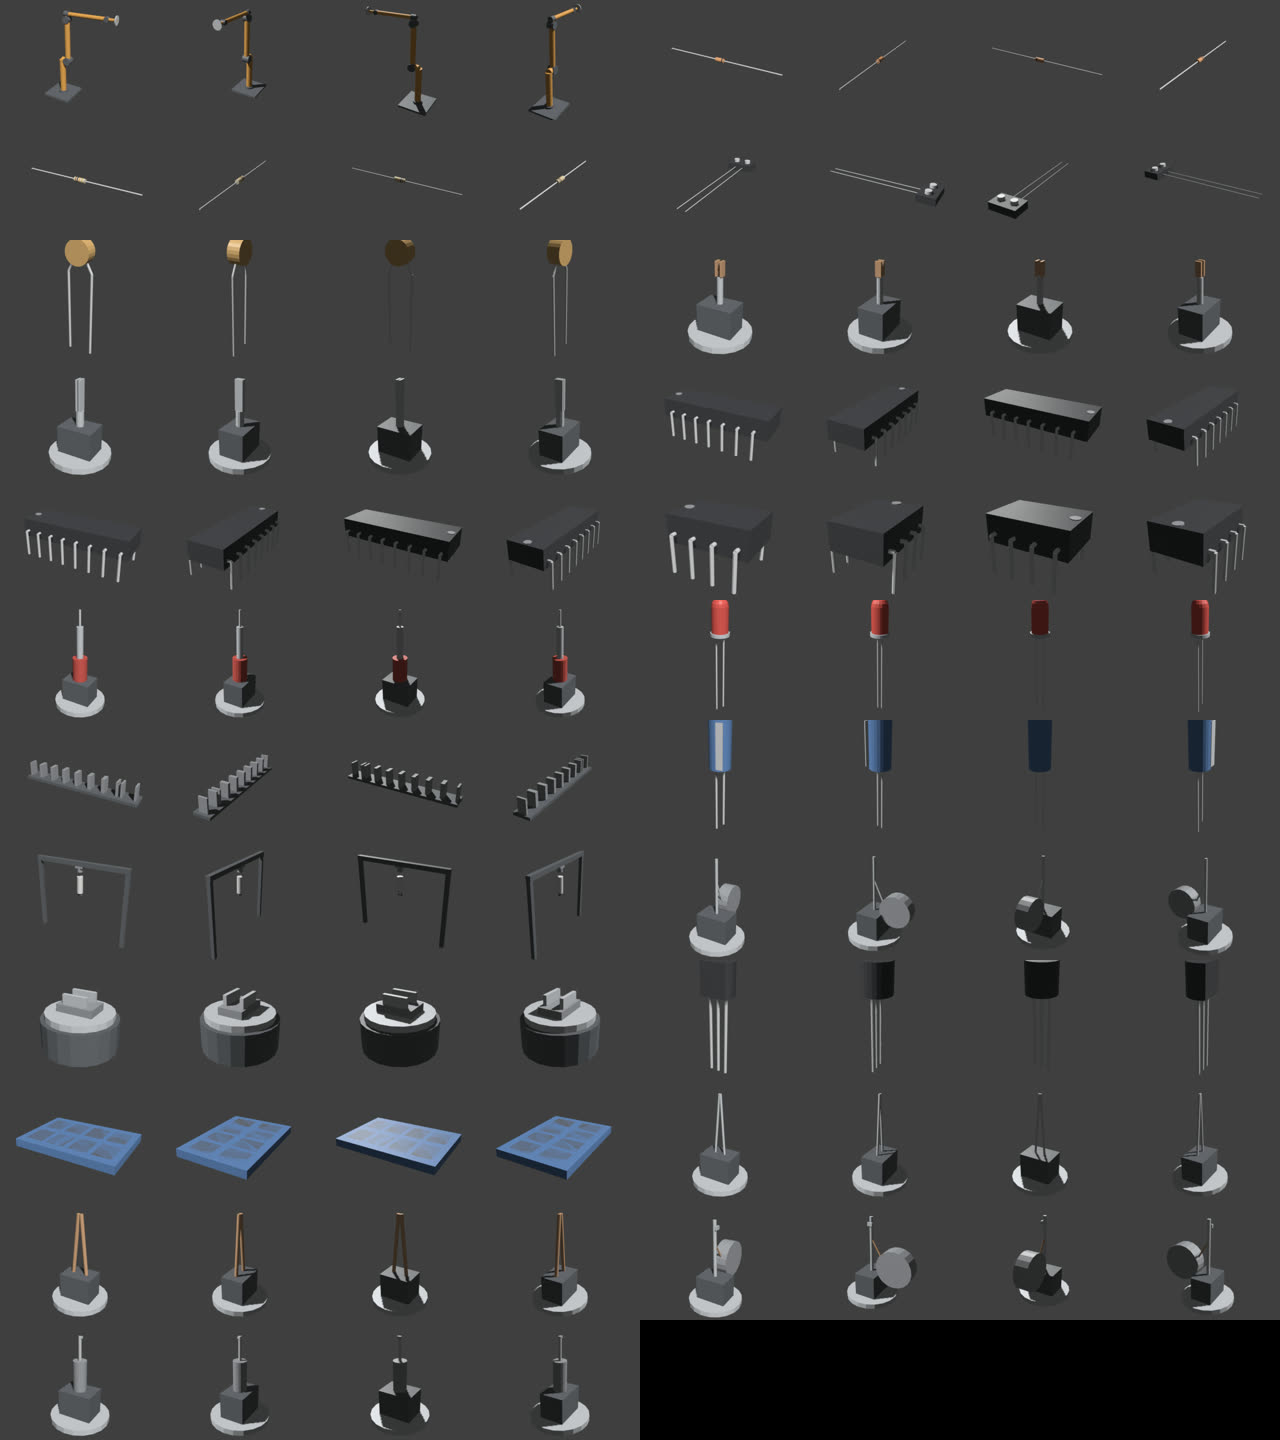
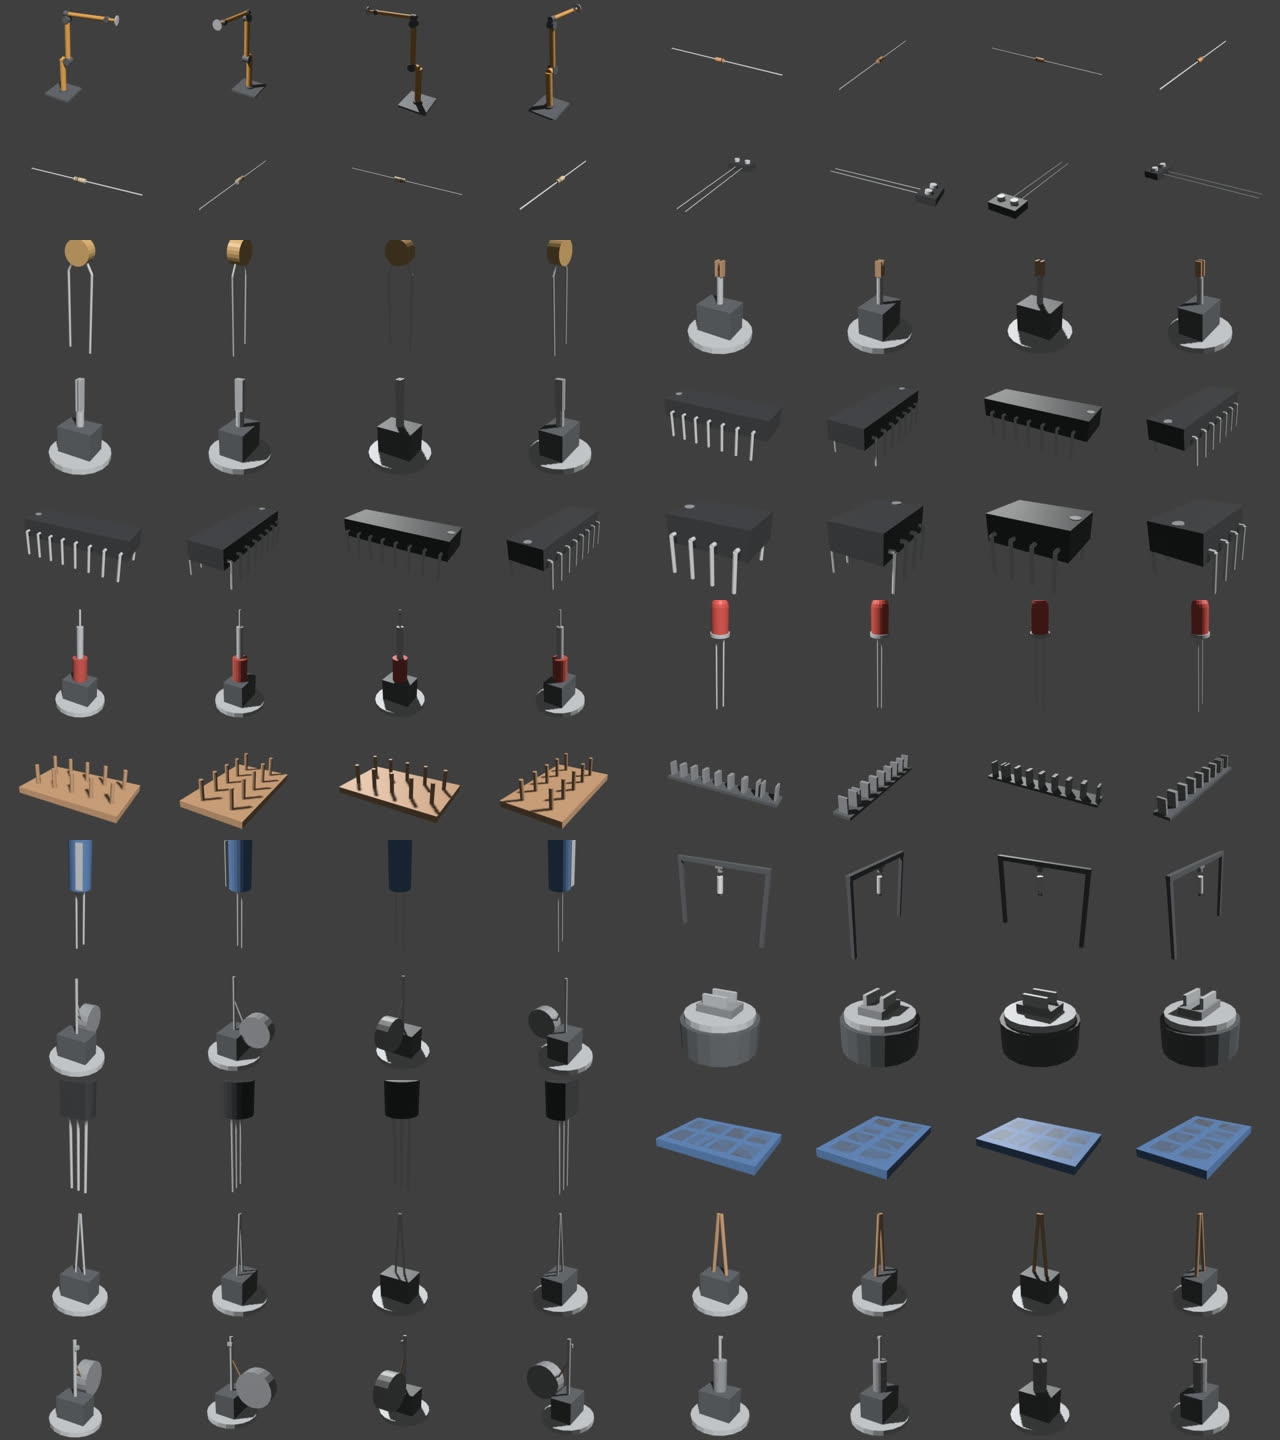
ext: cell, the multivibrator's parts and tile (Saga 17 step 34, part 1)
Decision C24: the second circuit is built Manhattan style on a
ground-plane tile.
- parts/manhattan-tile.toml: copper-clad board 26 by 16 mm, ten turret
  posts 5 mm tall; posts 1 and 6 on the plane, one conductor (a new
  part-kind field, common: check joins such pins); the rest each on a
  pad, a net each. Its model (CellModels.xtl), the contact sheet.
- A second tray beside the first: pockets 9 to 16 (layout::TRAY2), for
  a circuit of more than eight parts; the first tray is unchanged.
- circuits/multivibrator.toml: the tile, two 2N3904s, four resistors,
  two 10 uF capacitors, a red and a green LED, a battery snap; eight
  nets, each on a post of the tile. nets/multivibrator.net.
- CellPlan.xtl: the core placed as it should face (a DIP turned over, a
  tile as it lies, taken by its body); no jumper between a core's
  common pins (ce:c_ommon, new); jumpers may come in nearly level.
- Tests and goldens for the new kind, circuit and tray.

Not yet: the planned build (the radial parts' second leads end under
their own bodies; next: bend them out first).

diff --git a/extensions/cell/rust/src/layout.rs b/extensions/cell/rust/src/layout.rs
@@ -56,8 +56,14 @@ pub fn fixtures() -> Vec<(String, String, [f64; 6])> {
         "tray".to_string(),
         [198.0, 198.0, -150.0, 0.0, 0.0, 45.0],
     ));
+    // a second tray beside the first (pockets 9 to 16), for a circuit of
+    // more than eight parts
+    out.push(("tray2".to_string(), "tray".to_string(), TRAY2));
     out
 }
+
+/// The second tray's pose: beside the first, along its own -y.
+pub const TRAY2: [f64; 6] = [268.71, 127.29, -150.0, 0.0, 0.0, 45.0];
 
 fn base(name: &str) -> [f64; 6] {
     ARM_BASES
@@ -151,11 +157,17 @@ pub fn slot_pose(arm: &str, tool: &str) -> Pose {
 /// A tray pocket's middle, on the plate's top, in the cell's frame.
 #[must_use]
 pub fn pocket(n: usize) -> V3 {
+    // pockets 1 to 8 on the first tray, 9 to 16 on the second
+    let (name, k) = if n > 8 {
+        ("tray2", n - 8)
+    } else {
+        ("tray1", n)
+    };
     let tray = fixtures()
         .into_iter()
-        .find(|f| f.0 == "tray1")
+        .find(|f| f.0 == name)
         .map_or([0.0; 6], |f| f.2);
-    let at = node(TRAY, &format!("pocket{n}")).unwrap_or([0.0; 3]);
+    let at = node(TRAY, &format!("pocket{k}")).unwrap_or([0.0; 3]);
     pose6(tray).then(&Pose::from_xyz_rpy(at, [0.0; 3])).p
 }
 
@@ -277,7 +289,7 @@ pub fn nets(name: &str) -> Result<Vec<Net>, String> {
     Ok(f.net)
 }
 
-const CIRCUITS: [(&str, &str); 7] = [
+const CIRCUITS: [(&str, &str); 8] = [
     ("demo", include_str!("../../circuits/demo.toml")),
     ("weld", include_str!("../../circuits/weld.toml")),
     ("tester", include_str!("../../circuits/tester.toml")),
@@ -285,6 +297,10 @@ const CIRCUITS: [(&str, &str); 7] = [
     ("plan", include_str!("../../circuits/plan.toml")),
     ("blinker", include_str!("../../circuits/blinker.toml")),
     ("lap", include_str!("../../circuits/lap.toml")),
+    (
+        "multivibrator",
+        include_str!("../../circuits/multivibrator.toml"),
+    ),
 ];
 
 /// The circuits a reset can lay out: `none` (empty trays) and those in

diff --git a/extensions/cell/rust/src/parts.rs b/extensions/cell/rust/src/parts.rs
@@ -10,7 +10,7 @@ use std::collections::BTreeSet;
 pub type Vec3 = [f64; 3];
 
 /// The library's files, in the order `kinds` lists them.
-const FILES: [(&str, &str); 10] = [
+const FILES: [(&str, &str); 11] = [
     ("dip8", include_str!("../../parts/dip8.toml")),
     ("dip14", include_str!("../../parts/dip14.toml")),
     ("dip16", include_str!("../../parts/dip16.toml")),
@@ -29,6 +29,10 @@ const FILES: [(&str, &str); 10] = [
         include_str!("../../parts/ceramic-disc.toml"),
     ),
     ("led-5mm", include_str!("../../parts/led-5mm.toml")),
+    (
+        "manhattan-tile",
+        include_str!("../../parts/manhattan-tile.toml"),
+    ),
     (
         "battery-snap",
         include_str!("../../parts/battery-snap.toml"),
@@ -170,6 +174,8 @@ struct PartFile {
     heat_sensitive: bool,
     #[serde(default)]
     semiconductor: bool,
+    #[serde(default)]
+    common: Vec<String>,
     body: Body,
     #[serde(default)]
     pin_pattern: Option<PinPattern>,
@@ -194,6 +200,10 @@ pub struct PartKind {
     /// transient through it can damage it.
     pub semiconductor: bool,
     /// The body.
+    /// Pins that are one conductor in the part (a ground-plane tile's
+    /// posts on the plane): the connections check joins them.
+    #[serde(default, skip_serializing_if = "Vec::is_empty")]
+    pub common: Vec<String>,
     pub body: Body,
     /// The pins, in order.
     pub pins: Vec<Pin>,
@@ -223,6 +233,7 @@ impl PartKind {
             example: f.example,
             heat_sensitive: f.heat_sensitive,
             semiconductor: f.semiconductor,
+            common: f.common,
             body: f.body,
             pins,
             grasps: f.grasp,

diff --git a/extensions/cell/rust/src/lib.rs b/extensions/cell/rust/src/lib.rs
@@ -223,6 +223,20 @@ fn kind(args: &[Value]) -> Result<Value, OwnedError> {
     })
 }
 
+/// A part's pins that are one conductor (a ground plane's posts), space
+/// between (empty: none).
+fn common(args: &[Value]) -> Result<Value, OwnedError> {
+    let id = text(&args[0])?;
+    SESSION.with(|s| {
+        let w = s.borrow();
+        let p = w
+            .part(&id)
+            .ok_or_else(|| OwnedError::failure(format!("no part {id}")))?;
+        let k = p.kind_of().map_err(OwnedError::failure)?;
+        Ok(Value::Text(k.common.join(" ")))
+    })
+}
+
 /// The id the session's next wire will have (`W3`).
 fn next_wire(_: &[Value]) -> Result<Value, OwnedError> {
     SESSION.with(|s| {
@@ -285,6 +299,7 @@ xetal_ext_sdk::xetal_extension! {
         frame: 1, "Char -> Char", "Where a frame of the session's cell is now: x y z, mm.";
         kind: 1, "Char -> Char", "A part of the session's cell: its kind, then kitted if its leads came cut.";
         next_wire: 0, "Unit -> Char", "The id the session's next wire will have.";
+        common: 1, "Char -> Char", "A part's pins that are one conductor (a ground plane's posts), space between.";
         joined: 1, "Char -> Char", "The pins a pin of the session's cell is soldered to, space between.";
     }
 }

diff --git a/extensions/cell/rust/src/check.rs b/extensions/cell/rust/src/check.rs
@@ -79,6 +79,14 @@ impl World {
                 ok = false;
             }
         }
+        // a part's common pins are one conductor (a ground plane's posts)
+        for p in self.parts.iter().filter(|p| !p.lost) {
+            if let Ok(k) = p.kind_of() {
+                for w in k.common.windows(2) {
+                    sets.join(&format!("{}.{}", p.id, w[0]), &format!("{}.{}", p.id, w[1]));
+                }
+            }
+        }
         // a wire is one conductor end to end
         for p in self.parts.iter().filter(|p| p.wire.is_some() && !p.lost) {
             sets.join(&format!("{}.1", p.id), &format!("{}.2", p.id));

diff --git a/extensions/cell/rust/tests/world.rs b/extensions/cell/rust/tests/world.rs
@@ -79,7 +79,9 @@ fn a_refused_command_changes_nothing() {
     let o = w.apply(&parse_line("reset circuit=nowhere").unwrap());
     assert_eq!(
         o.refused.as_deref(),
-        Some("no circuit nowhere (circuits: none demo weld tester tester-b plan blinker lap)")
+        Some(
+            "no circuit nowhere (circuits: none demo weld tester tester-b plan blinker lap multivibrator)"
+        )
     );
     // a program stops at the first command that is not ok
     let out = w.apply_all(&parse_program("wait s=1\ngrip A close\nwait s=1").unwrap());

diff --git a/extensions/cell/rust/tests/scene.rs b/extensions/cell/rust/tests/scene.rs
@@ -25,8 +25,8 @@ fn a_scene_of_a_program() {
     let count = |p: &str| lines.iter().filter(|l| l.starts_with(p)).count();
     assert_eq!(
         count("fixture("),
-        5,
-        "the stage, the scope, one rack, the bending rig, the tray"
+        6,
+        "the stage, the scope, one rack, the bending rig, two trays"
     );
     assert_eq!(count("rig("), 1, "one arm");
     assert_eq!(count("track("), 2, "the arm and the stage");

diff --git a/extensions/cell/rust/tests/parts.rs b/extensions/cell/rust/tests/parts.rs
@@ -20,11 +20,12 @@ fn every_kind_parses_in_order() {
             "radial-electrolytic",
             "ceramic-disc",
             "led-5mm",
+            "manhattan-tile",
             "battery-snap"
         ]
     );
     let pins: Vec<usize> = lib.iter().map(|k| k.pins.len()).collect();
-    assert_eq!(pins, [8, 14, 16, 3, 2, 2, 2, 2, 2, 2]);
+    assert_eq!(pins, [8, 14, 16, 3, 2, 2, 2, 2, 2, 10, 2]);
 }
 
 #[test]

diff --git a/extensions/cell/rust/tests/grip.rs b/extensions/cell/rust/tests/grip.rs
@@ -61,7 +61,7 @@ fn a_reset_fills_the_tray_and_the_racks() {
     refused(
         &mut w,
         "reset circuit=nowhere",
-        "no circuit nowhere (circuits: none demo weld tester tester-b plan blinker lap)",
+        "no circuit nowhere (circuits: none demo weld tester tester-b plan blinker lap multivibrator)",
     );
 }
 

diff --git a/extensions/cell/rust/src/wire.rs b/extensions/cell/rust/src/wire.rs
@@ -157,6 +157,7 @@ pub fn kind(awg: i64, d: f64, lead1: &[V3], lead2: &[V3], density: f64, metal: &
         example: "a length of wire".into(),
         heat_sensitive: false,
         semiconductor: false,
+        common: Vec::new(),
         body: Body {
             shape: "cylinder".into(),
             size: None,

diff --git a/docs/plan.md b/docs/plan.md
@@ -815,7 +815,7 @@ The design is docs/cell-design.md. Decisions taken in planning,
 accepted by the user on 2026-11-24 ("ok for now"), C8 revised and
 C10, C11 added that day; C12 and C13 the user's requests later that day,
 C14 a layout change made in step 6, C15 the user's request later still,
-C16 and C17 others during step 12, C18 during step 14, C19 during step 20, C20 during step 23, C21 during step 24, C22 and C23 during step 28, the blinker (the table keeps C11 last for history):
+C16 and C17 others during step 12, C18 during step 14, C19 during step 20, C20 during step 23, C21 during step 24, C22 and C23 during step 28, the blinker; C24 during step 34 (the table keeps C11 last for history):
 
 | # | Decision | Why |
 | - | -------- | --- |
@@ -840,6 +840,7 @@ C16 and C17 others during step 12, C18 during step 14, C19 during step 20, C20 d
 | C21 | Surface-mount parts are built dead-bug, and enameled wire is the first insulator for connections (the user, 2026-11-26: "dead bug SMD components. Also, another way to avoid short circuits, simpler than adding heat-shrink (which we want to keep for components) is to use enameled wire where the insulation melts while soldering. So let's say there is a 5x5 ball grid array IC, we can precisely solder a very fine (30ga or higher) enameled wire to each of the ball contacts. This might require an actuator or mechanism to add solder paste to the grid or to the wire(s)") | enameled wire is insulated except where soldering burns its enamel off; sleeving stays for component leads; SMD parts are held pads up and wired; a BGA gets a paste dispenser and a fine wire to each ball |
 | C22 | A lead or wire joined to another lead lies alongside it: a lap joint, its end bent so at least 3.2 mm (1/8 inch) of the two run parallel and touch (the user, 2026-11-26: "It would be better if components or wires attached to a dip leg (or any other component lead, actually) was parallel to it for the solder joint. This means at least a 1/8th inch bent end ... Too little overlap (or the current right-angle) is not strong enough. Too much overlap and the heat amount and duration can damage some components") | a right-angle butt joint holds by the solder alone; a lap of 3.2 mm or more is mechanically sound; more overlap is more metal to heat for longer, nearer the part's limit; a DIP leg has about 3.4 mm of straight run below its body |
 | C23 | A wire may instead be wrapped round a lead's end, 1.5 to under 2 turns, by a wrap tool that holds it taut while it is soldered and then cuts the excess (the user, 2026-11-26: "wire wrap the end, say with enameled wire, so that it is at least 1.5 turns ... a different actuator/tip that can wrap around a component less than twice (to avoid complications). The mechanism goes around and holds the wire tight while soldering and then cuts the excess wire") | a wrap is mechanically sound before the solder flows and fits where a lap does not (a crowded pin, a jumper's end); under two turns keeps the tool simple; enameled wire (C21) needs no stripping. The tool is arm A's (rack slot 8), not a station: it works on the joint already presented at the iron station, so it can hold the wire while the iron solders (a station could not be at the iron's point too) |
+| C24 | The second circuit is built Manhattan style on a ground-plane tile: copper-clad board in the vise as the core, its top the ground plane, ten turret posts (two on the plane, one conductor: a part kind's `common` pins; eight on pads glued to it, each its own node, a net each); every part's lead lapped onto its net's post; a second tray (pockets 9 to 16) for a circuit of more than eight parts | the step asks for a ground-plane tile as a subassembly; pads a net each make every net reachable at the core, so the planner's rule (a lead alongside a core pin) builds a circuit with no single chip at its middle; posts stand up like a DIP's legs up, so lap joints work the same; the pincer gripping a TO-92's lead between body and joint is its heatsink clip |
 | C14 | A tool rack beside each arm, each with all seven tools, in place of one shared rack (step 6, 2026-11-24) | four arms 900 mm apart with a reach of about 650 mm cannot all reach one rack; each arm's own changer keeps tool changes short |
 | C11 | Videos are Three.js recordings, not Cycles renders; a scene can still be written as a render bundle -- a directory and zip needing only Blender -- for a render node, and the farm can divide one (the user, 2026-11-24: four always-on servers) | cheap videos by default, the farm's capacity on hand when a ray-traced film is wanted |
 

diff --git a/docs/status.md b/docs/status.md
@@ -11,7 +11,7 @@ of date. Release 1 is hello, clock and sqlite (docs/plan.md).
 | [audio](../extensions/audio/docs/README.md) | media (saga 5) | `Audio` (`au:`) | 14 | 5 | 8 | scope, spectrum, synth | [scope](../extensions/audio/videos/scope.webm), [spectrum](../extensions/audio/videos/spectrum.webm), [synth](../extensions/audio/videos/synth.webm) | command line |
 | [blender](../extensions/blender/docs/README.md) | roadmap | `Blender` (`bl:`) | 7 | 7 | 29 | city, city-preview, cosy, cubes, game-assets, gpu-build, gpu-run, hello, hex-build, hex-keys-leds-build, hex-keys-leds-run, hex-pc, hex-run, matmul-fly, matmul-steps, relu-softmax, td-models | [city](../extensions/blender/videos/city.webm), [city-preview](../extensions/blender/videos/city-preview.webm), [cosy](../extensions/blender/videos/cosy.webm), [cubes](../extensions/blender/videos/cubes.webm), [game-assets](../extensions/blender/videos/game-assets.webm), [gpu-build](../extensions/blender/videos/gpu-build.webm), [gpu-run](../extensions/blender/videos/gpu-run.webm), [hello](../extensions/blender/videos/hello.webm), [hex-build](../extensions/blender/videos/hex-build.webm), [hex-keys-leds-build](../extensions/blender/videos/hex-keys-leds-build.webm), [hex-keys-leds-run](../extensions/blender/videos/hex-keys-leds-run.webm), [hex-pc](../extensions/blender/videos/hex-pc.webm), [hex-run](../extensions/blender/videos/hex-run.webm), [matmul-fly](../extensions/blender/videos/matmul-fly.webm), [matmul-steps](../extensions/blender/videos/matmul-steps.webm), [relu-softmax](../extensions/blender/videos/relu-softmax.webm), [td-models](../extensions/blender/videos/td-models.webm) | command line |
 | [canvas](../extensions/canvas/docs/README.md) | media (saga 5) | `Canvas` (`cv:`) | 4 | 2 | 4 | life | [life](../extensions/canvas/videos/life.webm) | native window (xetal-x) |
-| [cell](../extensions/cell/docs/README.md) | roadmap | `Cell` (`ce:`) | 17 | 157 | 16 | models, pick, solder | [blinker](../extensions/cell/videos/blinker.webm), [lap](../extensions/cell/videos/lap.webm), [pick](../extensions/cell/videos/pick.webm), [solder](../extensions/cell/videos/solder.webm), [solder-stations](../extensions/cell/videos/solder-stations.webm), [wrap](../extensions/cell/videos/wrap.webm) | command line |
+| [cell](../extensions/cell/docs/README.md) | roadmap | `Cell` (`ce:`) | 18 | 157 | 16 | models, pick, solder | [blinker](../extensions/cell/videos/blinker.webm), [lap](../extensions/cell/videos/lap.webm), [pick](../extensions/cell/videos/pick.webm), [solder](../extensions/cell/videos/solder.webm), [solder-stations](../extensions/cell/videos/solder-stations.webm), [wrap](../extensions/cell/videos/wrap.webm) | command line |
 | [clock](../extensions/clock/docs/README.md) | release 1 | `Clock` (`ck:`) | 4 | 2 | 5 | bridge-cost | [bridge-cost](../extensions/clock/videos/bridge-cost.webm) | command line |
 | [digest](../extensions/digest/docs/README.md) | fetch (saga 11) | `Digest` (`dg:`) | 4 | 3 | 4 | -- | -- | command line |
 | [hello](../extensions/hello/docs/README.md) | release 1 | `Hello` (`hx:`) | 8 | 5 | 16 | tour | [tour](../extensions/hello/videos/tour.webm) | command line |

diff --git a/CHANGES.md b/CHANGES.md
@@ -29,6 +29,7 @@ version.
 
 ## 2026-11-27
 
+- 20:56 `ext` cell, the multivibrator's parts (Saga 17 step 34, part 1; decision C24): a Manhattan ground-plane tile (a part kind whose plane posts are one conductor, `common`; its model); a second tray (pockets 9 to 16); circuits/multivibrator.toml and nets/multivibrator.net; the planner places a tile as it lies and needs no jumper between common posts. The planned build is not yet complete.
 - 17:21 `docs` cell live page: the About dialog links the blog post and the video (and its footer line too), and says what the cell is now (one arm, stations, laps and wraps, MCP); the extension's page links them.
 - 16:52 `ext` cell, an agent over MCP again (Saga 17 step 33): cell_netlist, cell_attempt and cell_plan; cell_state gives each part's pins; Claude Code made two lap joints on the blinker's chip with the cell's tools alone (programs/claude-lap.cell); just ext cell agent NAME.
 - 15:24 `ext` cell, render bundles (Saga 17 step 32, decision C11): just ext cell bundle NAME writes a directory and zip a node renders with Blender alone (the cell player posing the simulator's calls each frame, checked to 0.001 mm); a farm job kind bundle; the blinker's end ray-traced from its bundle; the farm's always-on hosts noted.
